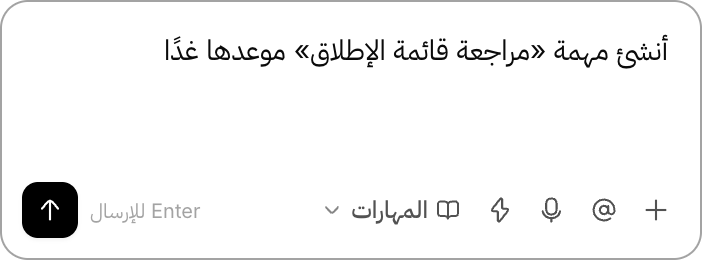
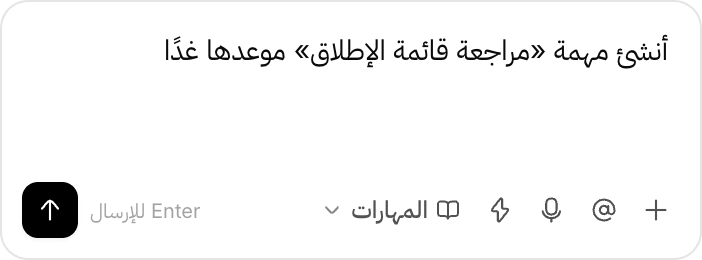
Use a shared light edge on website visuals
Re-render the six module illustrations and composer captures without stacked borders or strong shadows. Brain review found no change to product behavior.

Changed region(s): [[0.0, 0.0308, 1.0, 1.0], [0.0, 0.0, 0.9872, 0.0923]]

diff --git a/public/assets/landing.css b/public/assets/landing.css
@@ -10,6 +10,7 @@
   --ink: #0a0a0a; --ink-2: #404040; --muted: #737373; --dim: #a3a3a3;
   --line: #e5e5e5; --line-2: #d4d4d4; --plus: #a3a3a3;
   --brand: #266df0; --brand-soft: #eaf1fe;
+  --media-edge: oklch(0 0 0 / .10);
   --shadow: 0 1px 2px rgb(0 0 0 / .04), 0 4px 12px rgb(0 0 0 / .04);
   --shadow-lg: 0 1px 2px rgb(0 0 0 / .05), 0 16px 40px rgb(0 0 0 / .10);
   --font: "Inter", "IBM Plex Sans Arabic", ui-sans-serif, system-ui, sans-serif;
@@ -27,6 +28,7 @@
   --ink: #fafafa; --ink-2: #d4d4d4; --muted: #a3a3a3; --dim: #737373;
   --line: #262626; --line-2: #404040; --plus: #525252;
   --brand-soft: #16233b;
+  --media-edge: oklch(1 0 0 / .10);
   --shadow: 0 1px 2px rgb(0 0 0 / .4); --shadow-lg: 0 1px 2px rgb(0 0 0 / .5), 0 20px 48px rgb(0 0 0 / .5);
   color-scheme: dark;
 }
@@ -64,6 +66,15 @@ body { background: var(--bg); color: var(--ink); font: 400 15px/1.6 var(--font);
 :root.thmanyah-loaded { --font-ar: "Moeen Thmanyah Sans", "IBM Plex Sans Arabic", "Inter", ui-sans-serif, system-ui, sans-serif; }
 html.i18n-pending main, html.i18n-pending .nav, html.i18n-pending .footer { visibility: hidden; }
 img { display: block; max-width: 100%; height: auto; }
+/* Transparent compositions carry the edge on their own cards. */
+:where(.stage__window, .start-step__art img, .ai-scene__library, .ai-scene__message,
+  .platform-tile__board, .platform-tile__log, .workspace-tools__screen, .tile__art,
+  .work-chapter__visual--capture img, .work-detail img[data-shot="audit"], .download__visual img,
+  .fp-shot:not([data-shot^="mod_"]), .ch-window, .day__chat img, .day__crop,
+  .share__art img, .build__art img, .audit-scene__shot, .feature-visual, .release-image) {
+  outline: 1px solid var(--media-edge);
+  outline-offset: -1px;
+}
 a { color: inherit; }
 h1, h2, h3, p, dl, dd, ol, ul, figure, blockquote { margin: 0; }
 ol, ul { padding: 0; list-style: none; }
@@ -274,9 +285,8 @@ h3 { font-size: 15px; line-height: 1.45; font-weight: 500; letter-spacing: -0.00
 .product-menu__bottom .tile > .i { margin-inline: auto 7px; color: var(--muted); }
 .tile { display: flex; align-items: center; gap: 7px; min-block-size: 35px; padding: 3px 5px; border-radius: 6px; text-decoration: none; transition: background-color .2s var(--ease); }
 .tile:hover, .tile[aria-current="page"] { background: var(--panel-2); }
-.tile__art { display: grid; place-items: center; flex: none; inline-size: 29px; block-size: 29px; overflow: hidden; border: 1px solid var(--line); border-radius: 7px; background: var(--bg); transition: border-color .2s; }
+.tile__art { display: grid; place-items: center; flex: none; inline-size: 29px; block-size: 29px; overflow: hidden; border-radius: 7px; background: var(--bg); }
 .tile__art img, .tile__art svg { inline-size: 23px; block-size: 23px; }
-.tile:hover .tile__art { border-color: var(--line-2); }
 .tile__text { display: grid; gap: 1px; }
 .tile__text strong { font-size: 13px; font-weight: 500; line-height: 1.4; }
 .tile__tag { padding: 0 6px; border-radius: 5px; background: rgb(141 84 255 / .12); color: #7f22fe; font: 600 10.5px/17px var(--font); letter-spacing: .02em; }
@@ -320,7 +330,7 @@ h3 { font-size: 15px; line-height: 1.45; font-weight: 500; letter-spacing: -0.00
 [data-theme="dark"] .hero__fade { background: linear-gradient(to bottom, var(--bg) 0, var(--bg) 22%, color-mix(in srgb, var(--bg) 35%, transparent) 64%, transparent 90%); }
 .hero::before { z-index: 1; }
 .stage { position: relative; z-index: 1; margin-block-start: 64px; padding-inline: clamp(0px, 4vw, 56px); }
-.stage__window { position: relative; overflow: hidden; border: 1px solid rgb(255 255 255 / .6); border-block-end: 0; border-radius: 14px 14px 0 0; background: var(--panel); box-shadow: 0 30px 80px rgb(30 40 10 / .28), 0 2px 6px rgb(0 0 0 / .08); }
+.stage__window { position: relative; overflow: hidden; border-radius: 14px 14px 0 0; background: var(--panel); }
 .stage__window img { inline-size: 100%; }
 @media (max-width: 639px) { .hero { padding-block-start: 48px; } .stage { margin-block-start: 40px; padding-block-start: 32px; } }
 
@@ -376,10 +386,8 @@ h3 { font-size: 15px; line-height: 1.45; font-weight: 500; letter-spacing: -0.00
   inline-size: min(62%, 490px);
   margin-inline: auto;
   overflow: hidden;
-  border: 1px solid var(--line-2);
   border-radius: 13px;
   background: var(--panel);
-  box-shadow: var(--shadow);
   mask-image: linear-gradient(#000 74%, transparent);
 }
 .ai-scene__library img, .ai-scene__message img { inline-size: 100%; }
@@ -404,10 +412,8 @@ h3 { font-size: 15px; line-height: 1.45; font-weight: 500; letter-spacing: -0.00
   position: absolute;
   overflow: hidden;
   padding: 12px;
-  border: 1px solid var(--line-2);
   border-radius: 11px;
   background: var(--panel);
-  box-shadow: var(--shadow-lg);
 }
 .ai-scene__message--request { inset-block-start: 55%; inset-inline-start: 3%; inline-size: min(45%, 350px); }
 .ai-scene__message--response { inset-block-end: 0; inset-inline-end: 3%; inline-size: min(50%, 400px); }
@@ -503,7 +509,6 @@ h3 { font-size: 15px; line-height: 1.45; font-weight: 500; letter-spacing: -0.00
   inset-block-start: 24px;
   inset-inline-start: var(--tile-gutter);
   inline-size: 79%;
-  border: 1px solid var(--line);
   border-radius: 10px;
   opacity: .46;
   mask-image: radial-gradient(ellipse at 15% 5%, #000 16%, transparent 75%);
@@ -533,7 +538,6 @@ h3 { font-size: 15px; line-height: 1.45; font-weight: 500; letter-spacing: -0.00
   inset-block: clamp(24px, 4vw, 48px) 0;
   inset-inline: var(--tile-gutter);
   overflow: hidden;
-  border: 1px solid var(--line-2);
   border-radius: 10px;
   mask-image: linear-gradient(#000 52%, transparent 95%),
     linear-gradient(var(--log-fade), #000 78%, transparent 100%);
@@ -679,10 +683,8 @@ h3 { font-size: 15px; line-height: 1.45; font-weight: 500; letter-spacing: -0.00
   min-inline-size: 0;
   inline-size: 98%;
   overflow: hidden;
-  border: 1px solid var(--line-2);
   border-radius: 12px;
   background: var(--panel);
-  box-shadow: var(--shadow-lg);
   transform: rotateY(var(--scene-yaw)) rotateX(9deg);
   mask-image:
     linear-gradient(var(--scene-fade), #000 78%, transparent),
@@ -728,7 +730,6 @@ h3 { font-size: 15px; line-height: 1.45; font-weight: 500; letter-spacing: -0.00
   aspect-ratio: 8 / 5;
   overflow: hidden;
   padding: clamp(12px, 2vw, 22px);
-  border: 1px solid var(--line-2);
   border-radius: 10px;
   background: radial-gradient(ellipse at 50% 28%, var(--brand-soft), transparent 76%);
   mask-image: linear-gradient(#000 72%, transparent);
@@ -736,9 +737,7 @@ h3 { font-size: 15px; line-height: 1.45; font-weight: 500; letter-spacing: -0.00
 }
 .start-step__art img {
   inline-size: 100%;
-  border: 1px solid var(--line);
   border-radius: 8px;
-  box-shadow: var(--shadow);
 }
 [data-setup-rotation] .start-step:not([data-current]) .start-step__art { filter: grayscale(1); opacity: .58; }
 .start-step__copy { display: grid; gap: 6px; }
@@ -917,7 +916,6 @@ h3 { font-size: 15px; line-height: 1.45; font-weight: 500; letter-spacing: -0.00
   --capture-yaw: -12deg;
   --capture-roll: -3deg;
   --capture-fade: to right;
-  --capture-edge: oklch(0 0 0 / .10);
   display: grid;
   place-items: center;
   padding-block: clamp(16px, 3vw, 32px);
@@ -928,12 +926,9 @@ h3 { font-size: 15px; line-height: 1.45; font-weight: 500; letter-spacing: -0.00
   --capture-roll: 3deg;
   --capture-fade: to left;
 }
-[data-theme="dark"] .work-chapter__visual--capture { --capture-edge: oklch(1 0 0 / .10); }
 .work-chapter__visual--capture img {
   inline-size: 96%;
   border-radius: 8px;
-  outline: 1px solid var(--capture-edge);
-  outline-offset: -1px;
   transform: rotateX(12deg) rotateY(var(--capture-yaw)) rotateZ(var(--capture-roll));
   mask-image:
     linear-gradient(var(--capture-fade), #000 87%, transparent),

diff --git a/public/assets/company_pages.css b/public/assets/company_pages.css
@@ -44,7 +44,7 @@
 .share__list button[aria-pressed="true"]::before { content: ""; position: absolute; inset-block: -1px; inset-inline-start: 0; inline-size: 2px; background: var(--brand); }
 .share__card { display: grid; grid-template-rows: auto 1fr; min-inline-size: 0; }
 .share__art { display: grid; place-items: center; block-size: 290px; padding: 24px; overflow: hidden; border-block-end: 1px solid var(--line); background: radial-gradient(ellipse at 50% 40%, var(--brand-soft), transparent 72%); }
-.share__art img { inline-size: auto; max-inline-size: 100%; block-size: auto; max-block-size: 242px; border: 1px solid var(--line); border-radius: 10px; background: var(--panel); box-shadow: var(--shadow-lg); }
+.share__art img { inline-size: auto; max-inline-size: 100%; block-size: auto; max-block-size: 242px; border-radius: 10px; background: var(--panel); }
 .share__text { display: grid; align-content: start; justify-items: start; gap: 8px; padding: 24px var(--pad) 32px; }
 .fp .share__text h3 { font-size: 18px; }
 .share__link { display: flex; align-items: center; gap: 8px; inline-size: min(100%, 460px); margin-block: 8px 4px; padding: 4px; padding-inline-start: 14px; border: 1px solid var(--line-2); border-radius: 999px; background: var(--panel); }
@@ -111,7 +111,7 @@
 .build__tile { display: grid; grid-template-rows: auto 1fr; min-inline-size: 0; } .build__tile + .build__tile { border-inline-start: 1px solid var(--line); }
 .build__tile header { padding: 22px var(--pad) 0; } .build__tile p { margin-block-start: 4px; max-inline-size: 46ch; }
 .build__art { position: relative; align-self: end; block-size: 230px; margin-block-start: 18px; overflow: hidden; }
-.build__art img { position: absolute; border: 1px solid var(--line-2); border-radius: 9px; background: var(--panel); box-shadow: var(--shadow-lg); }
+.build__art img { position: absolute; border-radius: 9px; background: var(--panel); }
 .build__art--pair { background: radial-gradient(ellipse at 50% 70%, var(--brand-soft), transparent 68%); }
 .build__art .is-front { inset-block-start: 46px; inset-inline-start: var(--pad); inline-size: 72%; } .build__art .is-back { inset-block-start: 12px; inset-inline-end: 22px; inline-size: 58%; opacity: .75; transition: translate .4s var(--ease), opacity .4s; }
 .build__tile:hover .is-back { translate: 0 -5px; opacity: 1; }
@@ -319,7 +319,7 @@
 .ctx__icon { display: grid; place-items: center; inline-size: 32px; block-size: 32px; margin-block-end: 12px; border: 1px solid var(--line); border-radius: 9px; color: var(--brand); }
 .stale { display: grid; grid-template-columns: repeat(4, minmax(0, 1fr)); margin: 0 var(--bleed) var(--flush); border-block-start: 1px solid var(--line); } .stale li { position: relative; padding: 24px var(--pad) 30px; } .stale li + li { border-inline-start: 1px solid var(--line); padding-inline: 20px; }
 .stale li > span { position: absolute; inset-block-start: -6px; inset-inline-start: var(--pad); inline-size: 11px; block-size: 11px; border: 2px solid var(--brand); border-radius: 50%; background: var(--bg); } .stale li + li > span { inset-inline-start: 20px; } .stale .is-stop > span { border-color: #dc2626; background: #dc2626; } .stale p { margin-block-start: 3px; }
-.audit-scene { margin-block-end: var(--flush); } .audit-scene > div { padding-block-end: var(--fp-gap); } .audit-scene__shot { align-self: end; border: 1px solid var(--line); border-block-end: 0; border-radius: 10px 10px 0 0; box-shadow: var(--shadow-lg); max-block-size: 290px; inline-size: 100%; object-fit: cover; object-position: top; }
+.audit-scene { margin-block-end: var(--flush); } .audit-scene > div { padding-block-end: var(--fp-gap); } .audit-scene__shot { align-self: end; border-radius: 10px 10px 0 0; max-block-size: 290px; inline-size: 100%; object-fit: cover; object-position: top; }
 @media (max-width: 767px) { .stale { grid-template-columns: minmax(0, 1fr); } .stale li + li { border-inline-start: 0; border-block-start: 1px solid var(--line); padding-inline: var(--pad); } .stale li > span { display: none; } }
 
 /* ---- Blog ------------------------------------------------------------------------------------------ */

diff --git a/public/assets/feature_pages.css b/public/assets/feature_pages.css
@@ -20,7 +20,7 @@
 [data-theme="dark"] .fp-tag--blue { color: #8fb4fb; }
 .fp .btn { justify-self: start; }
 .fp-hero--center .btn { justify-self: center; }
-.fp-shot { display: block; inline-size: 100%; block-size: auto; border: 1px solid var(--line); border-radius: 14px; background: var(--panel); box-shadow: var(--shadow-lg); }
+.fp-shot { display: block; inline-size: 100%; block-size: auto; border-radius: 14px; }
 .fp-av { display: inline-block; inline-size: 28px; block-size: 28px; flex: none; border-radius: 8px; background: linear-gradient(135deg, #7dd3a7, #3b82f6); }
 .fp-av--sm { inline-size: 20px; block-size: 20px; border-radius: 6px; }
 .fp-av--b { background: linear-gradient(135deg, #fbbf24, #22c55e); } .fp-av--c { background: linear-gradient(135deg, #22d3ee, #6366f1); }
@@ -80,7 +80,7 @@
 .views { display: grid; gap: 28px; }
 .views__head { display: grid; grid-template-columns: minmax(0, 1fr) minmax(0, 1.4fr); gap: 32px; align-items: end; }
 .views__frame { padding: 28px 28px 0; overflow: hidden; border-radius: 24px; background: radial-gradient(80% 90% at 50% 0%, color-mix(in srgb, var(--brand) 10%, transparent), transparent 70%), var(--panel-2); }
-.views__frame .fp-shot { border-block-end: 0; border-end-start-radius: 0; border-end-end-radius: 0; }
+.views__frame .fp-shot { border-end-start-radius: 0; border-end-end-radius: 0; }
 .views__list { display: grid; grid-template-columns: repeat(3, minmax(0, 1fr)); gap: 32px; }
 .views__list li { display: grid; gap: 6px; align-content: start; }
 .views__list p { font-size: 14px; }
@@ -98,7 +98,7 @@
 /* ---- Chat ------------------------------------------------------------------------------------- */
 .ch-hero { display: grid; grid-template-columns: minmax(0, 1fr) minmax(0, 1.15fr); gap: 56px; align-items: center; }
 .ch-hero__copy { display: grid; gap: 18px; }
-.ch-window { overflow: hidden; border: 1px solid var(--line); border-radius: 20px; background: var(--panel); box-shadow: var(--shadow-lg); }
+.ch-window { overflow: hidden; border-radius: 20px; background: var(--panel); }
 .ch-window > header { display: flex; align-items: center; gap: 8px; padding: 14px 18px; border-block-end: 1px solid var(--line); font-size: 14px; }
 .ch-window > header span { margin-inline-start: auto; color: var(--dim); font-size: 12px; }
 .ch-window ol { display: grid; gap: 16px; padding: 20px 18px; }
@@ -321,8 +321,8 @@ button.mk[aria-pressed="false"] { background-size: 0 100%; color: var(--dim); te
 .day__copy p { grid-column: 1 / -1; max-inline-size: 400px; font-size: 13px; line-height: 1.7; } .day__copy time { color: var(--dim); font: 12px/22px var(--mono); }
 .day__art { overflow: hidden; display: grid; place-items: center; block-size: 290px; padding: 0 var(--pad); border-block-start: 1px solid var(--line); background: var(--sunken); }
 .day__chat { display: grid; justify-items: start; gap: 8px; inline-size: min(100%, 370px); }
-.day__chat img { max-inline-size: 92%; border: 1px solid var(--line); border-radius: 10px; } .day__chat img + img { justify-self: end; }
-.day__crop { overflow: hidden; inline-size: min(100%, 290px); block-size: 258px; border: 1px solid var(--line); border-radius: 10px; background: var(--panel); }
+.day__chat img { max-inline-size: 92%; border-radius: 10px; } .day__chat img + img { justify-self: end; }
+.day__crop { overflow: hidden; inline-size: min(100%, 290px); block-size: 258px; border-radius: 10px; background: var(--panel); }
 .day__crop img { inline-size: 100%; margin-block-start: -42px; } :lang(en) .day__crop { inline-size: min(100%, 260px); block-size: 252px; }
 .day__wide { overflow: hidden; inline-size: calc(100% + var(--pad)); block-size: 264px; place-self: end start; border: 1px solid var(--line); border-block-end: 0; border-start-start-radius: 10px; background: var(--panel); }
 .day__wide img { inline-size: 640px; max-inline-size: none; margin-block-start: -25px; }

diff --git a/public/assets/product_pages.css b/public/assets/product_pages.css
@@ -47,7 +47,7 @@
 .story-hero__lead { max-inline-size: 54ch; margin-block-start: 16px; color: var(--muted); font-size: 16px; }
 .story-kicker { margin-block-end: 10px; color: var(--muted); font-size: 13px; font-weight: 500; }
 
-.feature-visual { inline-size: fit-content; min-inline-size: 0; max-inline-size: 100%; margin-inline: auto; overflow: hidden; border: 1px solid var(--line); border-radius: 8px; background: var(--panel); }
+.feature-visual { inline-size: fit-content; min-inline-size: 0; max-inline-size: 100%; margin-inline: auto; overflow: hidden; border-radius: 8px; background: var(--panel); }
 .feature-visual img { display: block; inline-size: auto; block-size: auto; max-inline-size: 100%; max-block-size: 570px; object-fit: contain; }
 
 .story-body { display: grid; gap: clamp(44px, 7vw, 84px); margin-block-start: clamp(40px, 7vw, 86px); }
@@ -244,7 +244,7 @@
 [data-product-page="tasks"] .canvas-intro .story-kicker { grid-column: 1 / -1; }
 .conversation-cover { background: var(--brand-soft); padding: clamp(20px, 4vw, 44px); overflow: hidden; }
 .conversation-spread { display: grid; grid-template-columns: 2fr 1fr; align-items: end; margin-block-start: 30px; }
-.conversation-spread figure + figure { margin-inline-start: -12%; margin-block-end: -12px; box-shadow: var(--shadow-lg); position: relative; }
+.conversation-spread figure + figure { margin-inline-start: -12%; margin-block-end: -12px; position: relative; }
 .conversation-note { margin: 34px auto 0; max-inline-size: 66ch; }
 .conversation-note p { margin-block-start: 10px; color: var(--muted); }
 .team-map, .mail-desk, .agent-dialogue, .skill-recipe { display: grid; grid-template-columns: minmax(0, 1fr) minmax(0, 1fr); align-items: center; gap: clamp(24px, 5vw, 64px); }
@@ -268,7 +268,7 @@
 .agenda-content .story-timeline { padding-inline-start: 12px; }
 .mail-desk { background: var(--sunken); padding: clamp(20px, 4vw, 44px); grid-template-columns: 1.15fr 1fr; }
 .letter-pocket { position: relative; padding: 0 5% 13%; isolation: isolate; }
-.letter-pocket figure { transform: rotate(-3deg); box-shadow: var(--shadow-lg); }
+.letter-pocket figure { transform: rotate(-3deg); }
 .letter-pocket::after { content: ''; position: absolute; inset: 45% 0 0; background: linear-gradient(24deg,#becdee,#e1e9fa 60%,#c5d6f1); clip-path: polygon(0 0,50% 45%,100% 0,100% 100%,0 100%); border-radius: 0 0 8px 8px; }
 [data-theme=dark] .letter-pocket::after { background: linear-gradient(24deg,#28354f,#425271 60%,#2c3c58); }
 .architecture-lab { color: #f4f4f5; background: #111519; padding: clamp(24px, 5vw, 64px); }

diff --git a/docs/publication.md b/docs/publication.md
@@ -15,7 +15,7 @@ Hosting uses a Render static site. `app.moeen.dev` remains the workspace applica
 
 The landing page and public product pages use the same navigation. Edit the route list, menu order, and bilingual feature and company copy in `public/assets/site_content.js`. The build emits the Product, AI, Company, Blog, Docs, Pricing, Roadmap and Changelog routes. Public pages use the site's saved language and theme and support direct links with `?lang=ar` or `?lang=en`. Docs has a route and a shared header and footer with an empty main area.
 
-Feature, company and article copy lives in `public/assets/page_story_content.js`. Their compositions are rendered in `public/assets/product_content.js` and styled in `public/assets/product_pages.css`. Match the section order to how people work with the feature. Use demo workspace captures with Arabic and English light and dark variants when a screenshot illustrates the workflow. Use the App repository's capability docs to verify product claims before publishing.
+Feature, company and article copy lives in `public/assets/page_story_content.js`. Their compositions are rendered in `public/assets/product_content.js` and styled in `public/assets/product_pages.css`. Match the section order to how people work with the feature. Use demo workspace captures with Arabic and English light and dark variants when a screenshot illustrates the workflow. Use the shared 1px media outline for screenshot frames. In transparent illustrations, apply the same edge to the panels during capture so the empty canvas stays transparent. Use the App repository's capability docs to verify product claims before publishing.
 
 - **Pricing** mirrors the public Free, Plus and Pro plan definitions in the App repository's `packages/core/src/billing.ts`. When prices or entitlements change, update `public/assets/product_content.js` with the app's approved values. The page links to enrollment during the beta.
 - **Roadmap** uses `/roadmap.json` on the app origin. It renders an initial copy at build time and fetches the feed on load, every minute while visible, and when the page becomes visible again. The feed identifies saved data when GitHub sync is unavailable.
